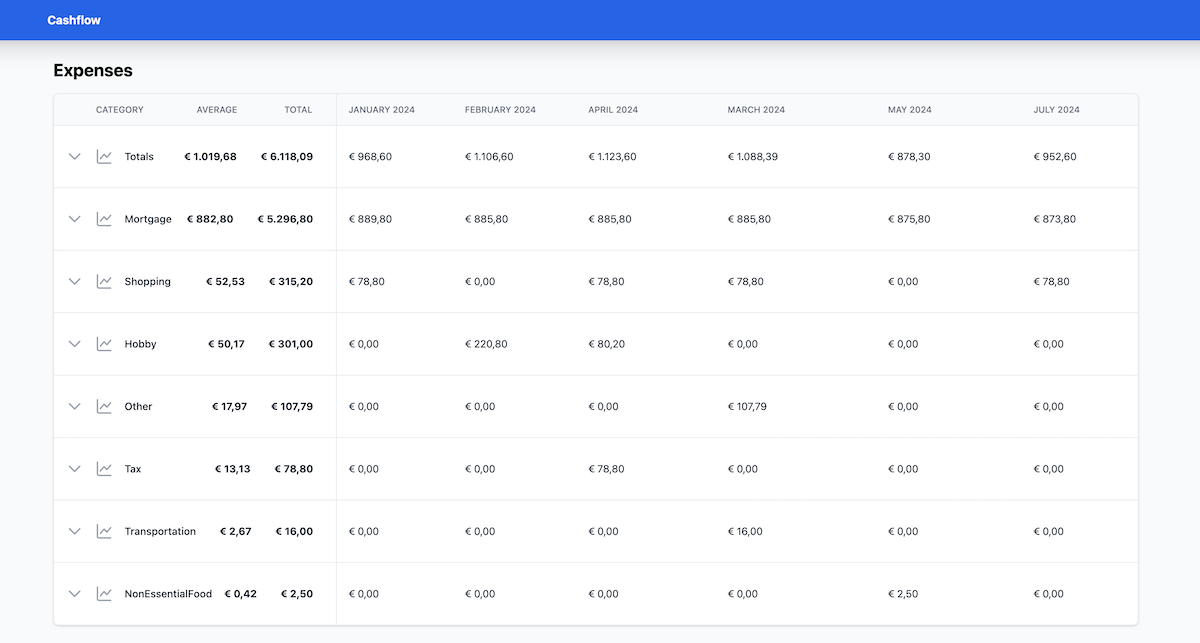
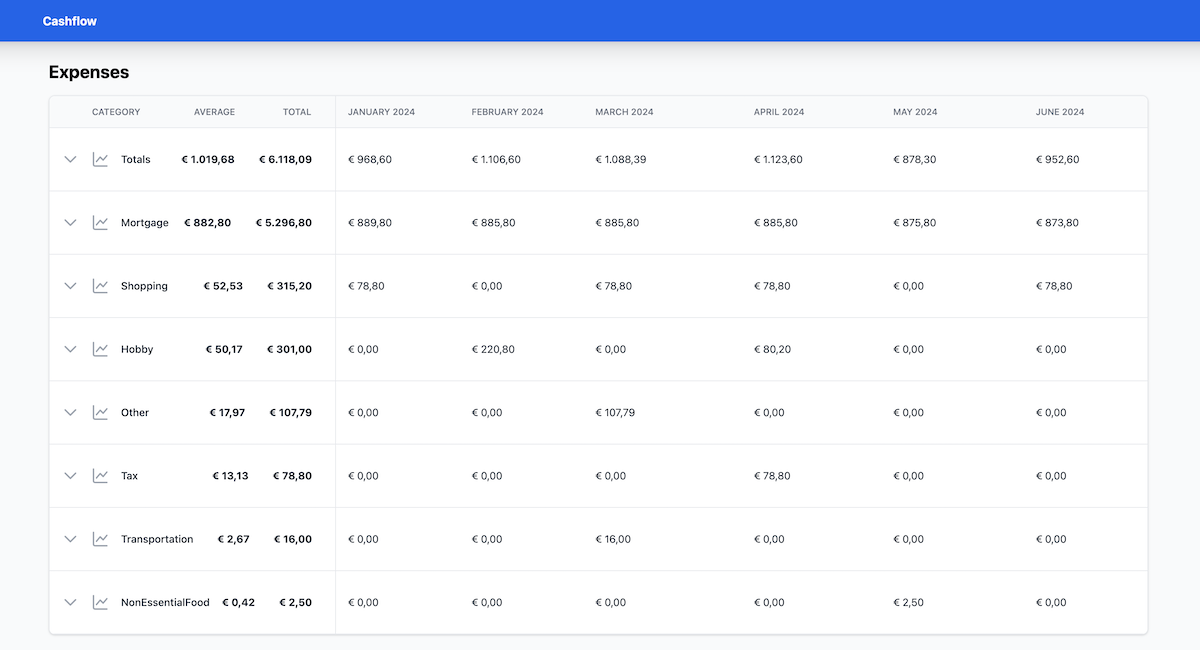
Fix date period wrapping issue

diff --git a/src/app/services/transaction-decorator.service.ts b/src/app/services/transaction-decorator.service.ts
@@ -26,12 +26,6 @@ export class TransactionDecoratorService {
     })
   }
 
-  private addMonths(date: Date, months: number): Date {
-    const updatedDate = new Date(date.getTime());
-    updatedDate.setMonth(date.getMonth() + months);
-    return updatedDate;
-  }
-
   private getSalaryPeriods(transactions: ITransaction[], transactionDescriptionToCategoryMap: Record<string, string>): ISalaryPeriod[] {
     let salaryPeriods: ISalaryPeriod[] = [];
 
@@ -43,7 +37,7 @@ export class TransactionDecoratorService {
           salaryPeriods.push({
             startDate: previousSalaryPeriodStartDate,
             endDate: this.getDayBeforeAtMidnight(transaction.date),
-            label: new Intl.DateTimeFormat('en-US', {month: "long", year: "numeric"}).format(previousSalaryPeriodStartDate)
+            label: this.monthFormatter.format(previousSalaryPeriodStartDate)
           });
         }
 
@@ -55,10 +49,12 @@ export class TransactionDecoratorService {
     const transactionAfterLastSalaryPeriod = salaryPeriods.length > 0 ? transactions.find(t => t.date > salaryPeriods[salaryPeriods.length -1].endDate) : transactions[transactions.length -1];
 
     if(transactionBeforeFirstSalaryPeriod){
+      const periodStartDate = transactions[0].date;
+
       salaryPeriods = [
         {
-          label: this.monthFormatter.format(this.addMonths(salaryPeriods[0].startDate, -1)),
-          startDate: transactions[0].date,
+          label: this.monthFormatter.format(periodStartDate),
+          startDate: periodStartDate,
           endDate: this.getDayBeforeAtMidnight(salaryPeriods[0].startDate)
         },
         ...salaryPeriods
@@ -67,12 +63,13 @@ export class TransactionDecoratorService {
 
     if(transactionAfterLastSalaryPeriod){
       const lastPeriod = salaryPeriods[salaryPeriods.length - 1];
+      const periodStartDate = this.nextDayAtMorning(lastPeriod.endDate);
 
       salaryPeriods = [
         ...salaryPeriods,
         {
-          label: this.monthFormatter.format(this.addMonths(lastPeriod.endDate, 1)),
-          startDate: this.nextDayAtMorning(lastPeriod.endDate),
+          label: this.monthFormatter.format(periodStartDate),
+          startDate: periodStartDate,
           endDate: transactions[transactions.length -1].date
         },
       ]
